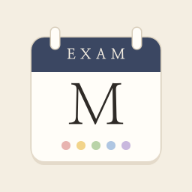
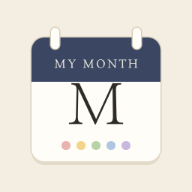
Rename to My Month, neutral wording, cleaner palette cards, more varied palettes
- Title, login screen, home-screen name, manifest and icon banner: My Month
- Exam-specific wording made neutral: 시험일 → D-day / 일정, 과목 → 일정,
  문제집 → 세부일정; Category1/2 hints read 일정 / 과목, 세부일정 / 문제집;
  examples and font previews use everyday tasks; new accounts start with
  공부 · 업무 · 운동 · 약속 · 개인
- Palette cards show only the name and colors (descriptions removed)
- All 12 movie palettes, London/Rome/Florence/Tokyo/Paris/New York/Seoul,
  Santorini/Marrakech/Little Forest/Grand Budapest and Blush Garden get
  more varied hues while keeping their mood (max similar pairs 25 → 8)

Claude-Session: https://claude.ai/code/session_01BxdXTeJun2es14Jts7corD

Changed region(s): [[0.1562, 0.25, 0.8438, 0.4375]]

diff --git a/js/data.js b/js/data.js
@@ -9,40 +9,40 @@
 const RAINBOW = ['빨강', '주황', '노랑', '초록', '파랑', '남색', '보라', '분홍', '청록', '모카'];
 
 const THEME_SOURCES = [
-  // 영화 장면에서 뽑은 색감 (사진 팔레트 순서 그대로)
-  { id: 'mv-enola', group: 'movie', name: '에놀라 홈즈', desc: '여름 들판 · 리넨 셔츠 · 멜빵', names: ['베이지', '탠', '카멜', '브라운', '벽돌 레드', '머스타드 올리브', '올리브', '딥 올리브', '다크 브라운', '스톤 그레이'], base: ['#DCC09E', '#C8A37E', '#9E7B52', '#8A5C40', '#9A4A40', '#8E7A40', '#6E6634', '#4E5420', '#2A2818', '#A8ABA6'] },
-  { id: 'mv-bigfish', group: 'movie', name: '빅 피쉬', desc: '수선화 들판 · 네이비 수트', names: ['미드나잇', '네이비', '라벤더 블루', '실버 그레이', '세이지', '모스', '그린', '올리브', '연노랑', '수선화 옐로'], base: ['#1E1F2A', '#353D6A', '#8C93C8', '#C3BFC4', '#94A47A', '#6A8048', '#5A7A30', '#8E8A4A', '#D6D27E', '#D6C040'] },
-  { id: 'mv-midnight', group: 'movie', name: '미드나잇 인 파리', desc: '비 내린 다리 위 가로등', names: ['밤', '딥 네이비', '블루', '하늘', '연하늘', '크림', '가로등 옐로', '살구', '레드', '브라운'], base: ['#0E1724', '#2A3D5A', '#3E5E9A', '#94B4E0', '#C8D6EE', '#F2DCA8', '#F5C460', '#E3A26A', '#C9493E', '#6A2A1E'] },
-  { id: 'mv-potter', group: 'movie', name: '해리포터', desc: '차콜 · 버건디 · 골드 · 틸', names: ['차콜 그레이', '딥 버건디', '버니시드 골드', '다크 틸', '앤티크 베이지', '포레스트', '플럼', '촛불 앰버', '석벽 그레이', '브론즈'], base: ['#30373E', '#7A2038', '#C49B4C', '#0A4F54', '#E2D2B4', '#2E4A3A', '#5E4A5E', '#D8A060', '#7E7A72', '#8E6A3E'] },
-  { id: 'mv-spirited', group: 'movie', name: '센과 치히로', desc: '온천장 · 숲 · 하쿠', names: ['차콜', '핑크', '틸', '다크 브라운', '코랄', '머스타드', '그린', '라벤더', '피치', '연올리브'], base: ['#2E2A2A', '#E04A6A', '#0E4E66', '#3E2A24', '#E07466', '#E0A83A', '#6CB04E', '#9A82A6', '#E3AE9E', '#B8BA80'] },
-  { id: 'mv-cmbyn', group: 'movie', name: '콜 미 바이 유어 네임', desc: '이탈리아 호숫가 · 줄무늬 셔츠', names: ['다크 브라운', '토프', '세이지', '민트 화이트', '민트', '시폼', '아쿠아 그레이', '틸 그레이', '스틸 블루', '네이비'], base: ['#2A251C', '#7A6660', '#A0AE88', '#CFE2D2', '#A6D2AE', '#92BEAE', '#86B0B6', '#6E9E96', '#4E7A9A', '#1E3E5E'] },
-  { id: 'mv-lalaland', group: 'movie', name: '라라랜드', desc: '보랏빛 노을 · 노란 드레스', names: ['퍼플 블루', '라일락', '로즈 브라운', '모브', '피치 핑크', '하늘', '머스타드', '레드', '로열 블루', '다크 그린'], base: ['#7A78BC', '#C0B6D8', '#BE8678', '#A8828E', '#E6C4B8', '#B4C6D8', '#C4A63E', '#A8382E', '#2A4C96', '#1E2A1E'] },
-  { id: 'mv-queens', group: 'movie', name: '퀸스 갬빗', desc: '60년대 거실 · 체스 · 틸 소파', names: ['레드', '브라운', '카멜', '오렌지 탠', '모브 브라운', '토프', '미드나잇', '틸 그레이', '페트롤 블루', '세이지 그레이'], base: ['#9E2E38', '#8A5A48', '#A0805A', '#C48A5A', '#7E5E62', '#6E5E50', '#14222A', '#3E5A60', '#5A808A', '#8A9480'] },
-  { id: 'mv-dune', group: 'movie', name: '듄', desc: '사막 · 모래빛 수트 · 흐린 하늘', names: ['웜 그레이', '차콜', '라벤더 그레이', '하늘', '안개', '샌드 오렌지', '테라코타', '모카', '브라운', '다크 브라운'], base: ['#7E7678', '#3E3C4C', '#9A98A8', '#CCDCEC', '#DEDEE2', '#C08A5A', '#B07A62', '#8E7266', '#6E4A3A', '#4E3228'] },
-  { id: 'mv-bridgerton', group: 'movie', name: '브리저튼', desc: '리젠시 드레스룸 · 파우더 블루 · 로즈', names: ['브라운', '플럼', '슬레이트 블루', '파우더 블루', '아이스 블루', '아이보리', '더스티 핑크', '로즈', '라벤더', '액자 골드'], base: ['#554636', '#4A3A44', '#5E6E7E', '#9EAEBA', '#C8D2DE', '#DEDAD2', '#D6C4C4', '#CEA29A', '#B8A8C8', '#C8A870'] },
-  { id: 'mv-coraline', group: 'movie', name: '코렐라인', desc: '파란 머리 · 노란 우비', names: ['밤', '네이비', '블루', '슬레이트', '머스타드', '우비 옐로', '와인', '카키 그레이', '피치', '부엌 크림'], base: ['#16222E', '#0E2440', '#1A3E5E', '#5E6A74', '#A0823A', '#B89A4A', '#6A3A3E', '#7E7666', '#E0BFA4', '#D8CFB0'] },
-  { id: 'mv-wicked', group: 'movie', name: '위키드', desc: '글린다 핑크 · 엘파바 그린', names: ['블러시', '핑크', '코랄 핑크', '로즈 레드', '엘파바 그린', '다크 올리브', '라임', '버터', '에메랄드 시티', '차콜'], base: ['#E8D0C6', '#E4A8B0', '#E68A88', '#C85A5C', '#6E8A3C', '#4E5A2E', '#AABE68', '#D8D49A', '#2E5A3A', '#5A5A5C'] },
+  // 영화 분위기를 살리면서 색조는 다양하게 (비슷한 색끼리 겹치지 않게)
+  { id: 'mv-enola', group: 'movie', name: '에놀라 홈즈', desc: '여름 들판 · 리넨 셔츠 · 멜빵', names: ['들판 골드', '숲 그린', '하늘 블루', '벽돌 레드', '라벤더', '네이비', '티 로즈', '틸', '다크 초콜릿', '자두'], base: ['#D6B04C', '#4E7A3A', '#7FA6C9', '#A8473A', '#8E7AAE', '#2E3E5E', '#D08A96', '#3E7E7A', '#4A3226', '#6E3A5E'] },
+  { id: 'mv-bigfish', group: 'movie', name: '빅 피쉬', desc: '수선화 들판 · 네이비 수트', names: ['수선화', '네이비 수트', '서커스 레드', '풀밭 그린', '라벤더 블루', '강물 틸', '오렌지', '핑크 드레스', '은빛 물고기', '나무 브라운'], base: ['#E8C840', '#2E3C6E', '#C0443C', '#6E9E44', '#8C93C8', '#3E8C9A', '#E0883A', '#D88AA8', '#A8B4BC', '#8A6440'] },
+  { id: 'mv-midnight', group: 'movie', name: '미드나잇 인 파리', desc: '비 내린 다리 위 가로등', names: ['밤 블루', '가로등 옐로', '와인 레드', '센강 틸', '살구', '라일락', '카페 브라운', '압생트 그린', '장미', '비 오는 회색'], base: ['#2A3D6A', '#F2C25A', '#A83A48', '#3E8A8E', '#E8A070', '#A694C8', '#7A5238', '#8AAA4E', '#D88A9A', '#8C96A6'] },
+  { id: 'mv-potter', group: 'movie', name: '해리포터', desc: '차콜 · 버건디 · 골드 · 틸', names: ['그리핀도르 레드', '골드', '슬리데린 그린', '래번클로 블루', '촛불 오렌지', '마법 보라', '호수 틸', '양피지', '석벽 그레이', '요정 핑크'], base: ['#9E2A34', '#D4A83A', '#2E6A48', '#2E4E8E', '#E08A3C', '#6E4A8E', '#2E7E80', '#DCC9A0', '#7E7A76', '#C87A92'] },
+  { id: 'mv-spirited', group: 'movie', name: '센과 치히로', desc: '온천장 · 숲 · 하쿠', names: ['온천장 핑크', '하쿠 틸', '머스타드', '숲 그린', '라벤더', '등불 오렌지', '다크 브라운', '하늘', '피치', '가오나시 차콜'], base: ['#E04A6A', '#0E6E86', '#E0A83A', '#6CB04E', '#9A82A6', '#E87A4A', '#5E3A2A', '#7EB8D8', '#E8B4A0', '#3E3A3E'] },
+  { id: 'mv-cmbyn', group: 'movie', name: '콜 미 바이 유어 네임', desc: '이탈리아 호숫가 · 줄무늬 셔츠', names: ['수영장 블루', '살구', '민트', '레몬', '체리 레드', '올리브', '하늘', '포레스트', '라일락', '와인'], base: ['#2F6FB6', '#E89A6A', '#8ECFA8', '#E8D05A', '#C2443C', '#7A8A44', '#9CC4E0', '#2E5E3E', '#A894C0', '#7A2E44'] },
+  { id: 'mv-lalaland', group: 'movie', name: '라라랜드', desc: '보랏빛 노을 · 노란 드레스', names: ['미아 옐로', '로열 블루', '레드 드레스', '퍼플 노을', '피치 핑크', '에메랄드', '하늘', '마젠타', '오렌지 노을', '밤 틸'], base: ['#E8C23A', '#2A4C96', '#B8323A', '#7A68B8', '#EAA090', '#2E8A6E', '#8EB8DE', '#B8487E', '#E8884A', '#2E5E5A'] },
+  { id: 'mv-queens', group: 'movie', name: '퀸스 갬빗', desc: '60년대 거실 · 체스 · 틸 소파', names: ['체스 레드', '틸 소파', '그린', '오렌지', '체커 블랙', '하늘', '머스타드', '네이비', '모브', '크림'], base: ['#9E2E38', '#2E6E74', '#4E7A4A', '#D8783A', '#2A2A30', '#8EB4D8', '#C8A040', '#2E3E6A', '#9A6E8A', '#E6DAC0'] },
+  { id: 'mv-dune', group: 'movie', name: '듄', desc: '사막 · 모래빛 수트 · 흐린 하늘', names: ['스파이스 오렌지', '사막 모래', '하늘 블루', '스틸 그레이', '사막 장미', '프레멘 블루', '다크 초콜릿', '오아시스 그린', '라벤더 노을', '아라키스 금빛'], base: ['#D2763A', '#E0BE8A', '#7EA6D0', '#5E6A78', '#C86A8A', '#2E5E9E', '#3E2A24', '#5E8E5A', '#A08EB8', '#D8A83A'] },
+  { id: 'mv-bridgerton', group: 'movie', name: '브리저튼', desc: '리젠시 드레스룸 · 파우더 블루 · 로즈', names: ['파우더 블루', '로즈', '바이올렛', '세이지', '샴페인 골드', '피치', '로열 네이비', '와인', '틸', '코랄'], base: ['#8EAEDA', '#E09AAE', '#8A6AC0', '#8AAE8E', '#D6B46A', '#F0B08E', '#2E3E7A', '#8A2E48', '#3E8A8E', '#E07E78'] },
+  { id: 'mv-coraline', group: 'movie', name: '코렐라인', desc: '파란 머리 · 노란 우비', names: ['파란 머리', '노란 우비', '체리 레드', '이끼 그린', '보라', '오렌지', '하늘', '핑크', '다크 네이비', '틸'], base: ['#1E4E9E', '#E8C23A', '#B8384A', '#5E8A3E', '#6E4A9E', '#E0843A', '#7EB0D0', '#E08AAE', '#1A2A44', '#2E8A8A'] },
+  { id: 'mv-wicked', group: 'movie', name: '위키드', desc: '글린다 핑크 · 엘파바 그린', names: ['엘파바 그린', '글린다 핑크', '에메랄드 시티', '라벤더', '골드', '로즈 레드', '라임', '하늘', '마녀 블랙', '피치'], base: ['#4E8A3E', '#E88AAE', '#2E7A5E', '#A890D0', '#D8B04A', '#C8485C', '#A8C45E', '#8EC0E0', '#2E2E36', '#F0B090'] },
 
   // 도시 분위기
-  { id: 'ct-london', group: 'city', name: '런던', desc: '빨간 공중전화 · 담쟁이 · 돌담', names: ['차콜 그레이', '버건디', '공중전화 레드', '담쟁이 레드', '카멜', '돌담 베이지', '딥 레드', '스틸 블루', '비 오는 회색', '가로등 블랙'], base: ['#5A5754', '#6E1E28', '#E04A58', '#D04E48', '#C09A70', '#B4AA9C', '#8E1A1A', '#6A8098', '#7E7A78', '#34383E'] },
-  { id: 'ct-paris', group: 'city', name: '파리', desc: '아연 지붕 · 마카롱 · 카페 테라스', names: ['오스만 크림', '아연 지붕', '세느 블루', '마카롱 핑크', '라벤더', '테라스 레드', '크루아상 골드', '마로니에 그린', '밤의 네이비', '보르도'], base: ['#E8DCC4', '#7E8A96', '#4E6E8E', '#E8A8B4', '#A898C4', '#A8323A', '#D4A050', '#5E7A4E', '#1E2A44', '#6A2234'] },
-  { id: 'ct-rome', group: 'city', name: '로마', desc: '테라코타 벽 · 사이프러스 · 젤라토', names: ['테라코타', '오커', '트래버틴', '사이프러스', '올리브', '바티칸 블루', '피스타치오', '레몬', '키안티 레드', '노을 로즈'], base: ['#C0623E', '#D8A048', '#D8CCB0', '#3E5A3A', '#8A8A4E', '#3A5A8A', '#B8CC8E', '#EED36A', '#8A2A2E', '#E2A08E'] },
-  { id: 'ct-newyork', group: 'city', name: '뉴욕', desc: '옐로 캡 · 브라운스톤 · 센트럴파크', names: ['옐로 캡', '브라운스톤', '벽돌', '센트럴파크', '허드슨 블루', '스틸 그레이', '브로드웨이 레드', '자유의 여신', '미드나잇', '콘크리트'], base: ['#F2C230', '#7A4A36', '#A84A3A', '#4E7A44', '#3E5E80', '#7E848C', '#C62E3A', '#7EB8A4', '#1A2230', '#B8B4AC'] },
+  { id: 'ct-london', group: 'city', name: '런던', desc: '빨간 공중전화 · 담쟁이 · 돌담', names: ['공중전화 레드', '로열 블루', '하이드파크 그린', '템스 틸', '돌담 베이지', '담쟁이 오렌지', '라벤더', '가로등 차콜', '머스타드', '장미'], base: ['#C8323A', '#2E4E8E', '#4E8A4E', '#3E7E86', '#C8B490', '#D8743A', '#9A8AB8', '#3E4046', '#C8A040', '#D88A98'] },
+  { id: 'ct-paris', group: 'city', name: '파리', desc: '아연 지붕 · 마카롱 · 카페 테라스', names: ['세느 블루', '마카롱 핑크', '라벤더', '테라스 레드', '크루아상 골드', '마로니에 그린', '아연 지붕', '오스만 크림', '민트', '밤의 네이비'], base: ['#3E6E9E', '#E8A0B4', '#A890D0', '#B8323A', '#D8A44A', '#5E8A4E', '#7E8A96', '#E8DCC4', '#8ED0C0', '#1E2A4E'] },
+  { id: 'ct-rome', group: 'city', name: '로마', desc: '테라코타 벽 · 사이프러스 · 젤라토', names: ['테라코타', '레몬', '사이프러스', '바티칸 블루', '피스타치오', '키안티 레드', '라일락', '분수 아쿠아', '에스프레소', '젤라토 핑크'], base: ['#C0623E', '#EAD860', '#3E6A4A', '#2E4A8E', '#A8C478', '#9A2A3A', '#A08EC0', '#4EB0C0', '#5A3A2E', '#E89AB0'] },
+  { id: 'ct-newyork', group: 'city', name: '뉴욕', desc: '옐로 캡 · 브라운스톤 · 센트럴파크', names: ['옐로 캡', '브라운스톤', '브로드웨이 퍼플', '센트럴파크', '허드슨 블루', '핑크 네온', '브로드웨이 레드', '자유의 여신', '미드나잇', '콘크리트'], base: ['#F2C230', '#7A4A36', '#7A5EA8', '#4E7A44', '#3E5E80', '#E89AB0', '#C62E3A', '#7EB8A4', '#1A2230', '#B8B4AC'] },
   { id: 'ct-la', group: 'city', name: 'LA', desc: '선셋 · 야자수 · 태평양', names: ['선셋 오렌지', '핑크 노을', '야자수', '퍼시픽 블루', '하늘', '할리우드 골드', '샌드', '부겐빌레아', '라벤더 하늘', '밤의 보라'], base: ['#F08A4E', '#F2A0A8', '#4E8A5A', '#2E7EB0', '#9CCCE8', '#E2B84A', '#E8D2AE', '#C83E7A', '#B4A6D8', '#3A2E5E'] },
-  { id: 'ct-florence', group: 'city', name: '피렌체', desc: '두오모 · 대리석 · 아르노 강', names: ['두오모 테라코타', '대리석 크림', '두오모 그린', '아르노 강', '투스칸 옐로', '와인', '가죽 브라운', '사이프러스', '로즈 마블', '석양 오렌지'], base: ['#B85A3A', '#EDE6D6', '#4E6E52', '#7E9A8E', '#E0B85A', '#7A2836', '#8A5A3A', '#34492E', '#D8A8A0', '#E08A4E'] },
-  { id: 'ct-tokyo', group: 'city', name: '도쿄', desc: '벚꽃 · 도리이 · 네온', names: ['벚꽃', '도리이 레드', '네온 핑크', '말차', '인디고', '밤', '후지 블루', '유자', '콘크리트', '등나무'], base: ['#F2BCC8', '#D0402E', '#E2508E', '#8EAA5A', '#2E3E6E', '#161A2A', '#6E8EB8', '#F0CC4A', '#A8A8A8', '#A88EC8'] },
+  { id: 'ct-florence', group: 'city', name: '피렌체', desc: '두오모 · 대리석 · 아르노 강', names: ['두오모 테라코타', '두오모 그린', '아르노 블루', '투스칸 옐로', '와인', '대리석 크림', '로즈 마블', '올리브', '라벤더', '하늘'], base: ['#B85A3A', '#3E7A5A', '#4E7EA8', '#E0B84A', '#7A2840', '#E6DCC6', '#D88A98', '#8A8A44', '#9A86BE', '#9CC6E0'] },
+  { id: 'ct-tokyo', group: 'city', name: '도쿄', desc: '벚꽃 · 도리이 · 네온', names: ['벚꽃', '도리이 레드', '말차', '인디고', '유자', '등나무', '네온 시안', '콘크리트', '노을 오렌지', '신사 숲'], base: ['#F2A8BC', '#D0402E', '#8EAA4E', '#2E3E7E', '#F0CC4A', '#A88EC8', '#3EB8C8', '#8E9096', '#E8843A', '#3E6E4E'] },
   { id: 'ct-berlin', group: 'city', name: '베를린', desc: '콘크리트 · 그래피티 · 티어가르텐', names: ['콘크리트', '그래피티 옐로', '그래피티 핑크', '장벽 블루', '테크노 블랙', '티어가르텐', '벽돌', '샌드스톤', '페트롤', '녹슨 철'], base: ['#8E8E8C', '#F0C834', '#E25A8A', '#3E6EA8', '#1E1E22', '#5A7A4A', '#A8503E', '#D6C29A', '#2E5E66', '#8A4A2E'] },
   { id: 'ct-sydney', group: 'city', name: '시드니', desc: '하버 · 본다이 비치 · 자카란다', names: ['하버 블루', '오페라하우스', '본다이 아쿠아', '샌드', '유칼립투스', '자카란다', '산호', '선샤인', '레드 센터', '딥 오션'], base: ['#1E6EA8', '#F0EEE6', '#5EC4C8', '#E8CFA0', '#8AAE9A', '#9E86D0', '#F08A72', '#F2C84E', '#B8502E', '#123A5E'] },
-  { id: 'ct-seoul', group: 'city', name: '서울', desc: '단청 · 한강 · 은행잎', names: ['단청 레드', '단청 그린', '한강 블루', '남산 그레이', '벚꽃', '은행잎', '한복 분홍', '쪽빛', '기와 차콜', '백자'], base: ['#B83A30', '#3E8A6A', '#4E7EAE', '#8C9098', '#F2C4CC', '#EDC23E', '#E07898', '#2A3E6E', '#3A3A40', '#EEEAE0'] },
+  { id: 'ct-seoul', group: 'city', name: '서울', desc: '단청 · 한강 · 은행잎', names: ['단청 레드', '단청 그린', '한강 블루', '노을 오렌지', '라일락', '은행잎', '한복 분홍', '쪽빛', '기와 차콜', '백자'], base: ['#B83A30', '#3E8A6A', '#4E7EAE', '#E8843A', '#A890CC', '#EDC23E', '#E07898', '#2A3E6E', '#3A3A40', '#EEEAE0'] },
 
   // 여행지 · 영화 · 문구점에서 골라 담은 추천 조합
-  { id: 'pk-santorini', group: 'pick', name: '산토리니', desc: '에게해 · 흰 벽 · 부겐빌레아', names: ['에게해 블루', '레몬', '부겐빌레아', '올리브', '하늘', '테라코타', '라벤더', '모래', '딥 씨', '화이트 워시'], base: ['#1F5FA8', '#E8C547', '#C2417A', '#7C8A4E', '#7FB2DE', '#C0643E', '#9C8CC4', '#D9C29A', '#183E6E', '#E4E0D6'] },
+  { id: 'pk-santorini', group: 'pick', name: '산토리니', desc: '에게해 · 흰 벽 · 부겐빌레아', names: ['에게해 블루', '레몬', '부겐빌레아', '올리브', '하늘', '테라코타', '라벤더', '민트', '화이트 워시', '무화과'], base: ['#1F5FA8', '#E8C547', '#C2417A', '#7C8A4E', '#8EC4E8', '#C0643E', '#9C8CC4', '#8ED0B8', '#E4E0D6', '#6E3E6E'] },
   { id: 'pk-kyoto', group: 'pick', name: '교토의 가을', desc: '단풍 · 은행 · 말차', names: ['단풍 레드', '은행 옐로', '말차', '쪽빛', '감 오렌지', '등나무', '기와 그레이', '연분홍', '이끼', '나무 브라운'], base: ['#B83A2E', '#E2B33C', '#7E9A4E', '#2E4A72', '#E07E3C', '#8E78B0', '#6E7076', '#E8A8B0', '#4E6A3E', '#7A5238'] },
   { id: 'pk-aurora', group: 'pick', name: '아이슬란드 오로라', desc: '오로라 · 빙하 · 화산석', names: ['오로라 그린', '밤하늘', '핑크 오로라', '빙하 블루', '퍼플', '이끼', '노을', '온천 아쿠아', '화산석', '눈'], base: ['#3EBF8E', '#1E2A4E', '#D46EA8', '#8EC8DE', '#7A5EB4', '#8AA05A', '#E89A6E', '#5EC4C0', '#4A4A50', '#DDE4EA'] },
-  { id: 'pk-marrakech', group: 'pick', name: '마라케시', desc: '마조렐 블루 · 사프란 · 민트티', names: ['마조렐 블루', '사프란', '민트티', '장미', '테라코타', '타일 청록', '사막 모래', '향신료 레드', '대추야자', '라임워시'], base: ['#2E4FB0', '#E8A23A', '#6EAA8A', '#D47A8A', '#B85A36', '#2E8A8E', '#D8B78A', '#A8322E', '#6E3E2A', '#E2D6B8'] },
-  { id: 'pk-budapest', group: 'pick', name: '그랜드 부다페스트 호텔', desc: '핑크 호텔 · 보라 제복 · 케이크 상자', names: ['멘들스 핑크', '벨보이 퍼플', '머스타드', '스노우 블루', '엘리베이터 레드', '민트', '라일락', '초콜릿', '스카이', '크림'], base: ['#E8A0B0', '#5E3A6E', '#D8A83E', '#A8C4DE', '#B8323E', '#8EC4B0', '#9E86B8', '#5A3A2E', '#6E9EC8', '#E6DAC0'] },
+  { id: 'pk-marrakech', group: 'pick', name: '마라케시', desc: '마조렐 블루 · 사프란 · 민트티', names: ['마조렐 블루', '사프란', '민트티', '장미', '테라코타', '라벤더', '하늘', '올리브', '대추야자', '라임워시'], base: ['#2E4FB0', '#E8A23A', '#6EAA8A', '#D47A8A', '#B85A36', '#9A86C0', '#8EC0E0', '#8A8A3E', '#6E3E2A', '#E2D6B8'] },
+  { id: 'pk-budapest', group: 'pick', name: '그랜드 부다페스트 호텔', desc: '핑크 호텔 · 보라 제복 · 케이크 상자', names: ['멘들스 핑크', '벨보이 퍼플', '머스타드', '스노우 블루', '엘리베이터 레드', '민트', '오렌지', '초콜릿', '스카이', '포레스트'], base: ['#E8A0B0', '#5E3A6E', '#D8A83E', '#A8C4DE', '#B8323E', '#8EC4B0', '#E8843A', '#5A3A2E', '#6E9EC8', '#3E6A4E'] },
   { id: 'pk-jeju', group: 'pick', name: '제주', desc: '감귤 · 유채꽃 · 현무암', names: ['감귤', '제주 바다', '동백', '유채꽃', '오름 그린', '수국', '현무암', '하늘', '해녀 블루', '모래'], base: ['#F08A2E', '#2E8AB0', '#C0323E', '#EAC83E', '#6E9A4E', '#8E86C8', '#4A4A4E', '#9CC8E6', '#1E4A6E', '#DCCBA8'] },
-  { id: 'pk-forest', group: 'pick', name: '리틀 포레스트', desc: '시골 부엌 · 텃밭 · 사계절', names: ['토마토', '들깨 그린', '호박', '겨울 하늘', '고구마 퍼플', '꽃분홍', '밤 브라운', '논 초록', '밤하늘', '막걸리 크림'], base: ['#D04A3A', '#6E8A4A', '#E2963E', '#9AB4C8', '#8A5E86', '#E4A0A8', '#8A5A3A', '#A8B85E', '#2E3A52', '#E2D8BE'] },
+  { id: 'pk-forest', group: 'pick', name: '리틀 포레스트', desc: '시골 부엌 · 텃밭 · 사계절', names: ['토마토', '들깨 그린', '호박', '민트', '고구마 퍼플', '꽃분홍', '개울 블루', '레몬', '밤하늘', '버섯 브라운'], base: ['#D04A3A', '#6E8A4A', '#E2963E', '#8ED0BE', '#8A5E86', '#E4A0A8', '#3E7EA8', '#E8D060', '#2E3A52', '#8A6A4E'] },
   { id: 'pk-provence', group: 'pick', name: '프로방스', desc: '라벤더 밭 · 해바라기 · 올리브', names: ['라벤더', '해바라기', '지중해 블루', '로즈', '올리브', '테라코타', '시냇물', '포도 와인', '세이지', '석회암'], base: ['#9A84C8', '#EAC23E', '#3A72B0', '#D88A9A', '#7A8A4A', '#C2683E', '#6EB0B8', '#6E2A44', '#A8B8A0', '#D6C6A8'] },
   { id: 'pk-nordic', group: 'pick', name: '노르딕', desc: '피오르 · 링곤베리 · 자작나무', names: ['피오르 블루', '링곤베리', '버터', '숲', '오로라 민트', '모브', '라이트 우드', '블루베리', '안개', '차콜'], base: ['#3E6E96', '#B8324A', '#EAD08A', '#3E5E4A', '#8ECDB8', '#A88AA8', '#C8A07A', '#4A4A8A', '#B8C2C8', '#3E4048'] },
   { id: 'pk-stationery', group: 'pick', name: '문구점', desc: '형광펜 · 색연필 · 포스트잇', names: ['형광 핑크', '레몬', '민트', '하늘', '라벤더', '피치', '그린', '코랄', '네이비 펜', '연필 그레이'], base: ['#F08AA8', '#F2D45A', '#7ED0B8', '#84B8EA', '#B49ADE', '#F4A882', '#8CC46A', '#F07A6A', '#2E3E7A', '#8A8A8E'] },
@@ -56,7 +56,7 @@ const THEME_SOURCES = [
   { id: 'rb-jewel', group: 'rainbow', name: '주얼톤', desc: '보석처럼 깊은 무지개', base: ['#A51E36', '#C55A1E', '#C99A1E', '#2E7D4F', '#1F639E', '#2E3584', '#5E2E85', '#A6336E', '#0F6E6A', '#6B3E26'] },
 
   // 여러 색이 섞인 조합
-  { id: 'mx-blush', group: 'mix', name: '블러시 가든', desc: '블러시 · 로즈우드 · 세이지', names: ['블러시', '로즈우드', '세이지', '미스티 스카이', '미드나잇', '바닐라', '더스티 로즈', '모스', '라떼', '더스크'], base: ['#F7C8D3', '#B46A72', '#A8B58A', '#A8B7C6', '#2D3A47', '#F3E3C3', '#D9A5A0', '#6E7F5A', '#C9A68A', '#7A6E8E'] },
+  { id: 'mx-blush', group: 'mix', name: '블러시 가든', desc: '블러시 · 로즈우드 · 세이지', names: ['블러시', '로즈우드', '세이지', '미스티 스카이', '미드나잇', '바닐라', '라벤더', '테라코타', '라떼', '더스크'], base: ['#F7C8D3', '#B46A72', '#A8B58A', '#A8B7C6', '#2D3A47', '#F3E3C3', '#B8A6D6', '#C8805A', '#C9A68A', '#7A6E8E'] },
   { id: 'mx-butter', group: 'mix', name: '버터 & 버건디', desc: '버터밀크 · 파스텔 블루 · 버건디', names: ['버터밀크', '파스텔 블루', '올드 버건디', '세이지', '블러시', '카라멜', '네이비', '라벤더', '테라코타', '올리브'], base: ['#FFF1B5', '#C1DBE8', '#6B2E33', '#A8B58A', '#EDBFC0', '#C08552', '#3A4A6B', '#C3B5D9', '#C46A4A', '#8C8A5A'] },
   { id: 'mx-retro', group: 'mix', name: '레트로 팝', desc: '라벤더 · 라임에이드 · 토마토', names: ['오텀 라벤더', '라임에이드', '토마토 잼', '퓨어 선', '모네 연못', '버블검', '스카이', '틸', '체리', '크림'], base: ['#D1CAEA', '#D6D35F', '#C45F3F', '#F4D242', '#898E46', '#F29CC3', '#80B0E8', '#008471', '#B23A48', '#EFE3C2'] },
   { id: 'mx-baby', group: 'mix', name: '베이비 팝', desc: '라벤더 · 피치 · 풀장', names: ['베이비 라벤더', '블루 스카이', '수선화', '나이트', '피치', '양귀비', '푸크시아', '풀장', '세이지', '모카'], base: ['#DBC0E8', '#A3C1E2', '#F7E289', '#252D45', '#FBB28B', '#F76F54', '#EA5E8B', '#47B5A8', '#9FA88E', '#A47A5E'] },
@@ -193,7 +193,7 @@ export const STYLES = [
   { id: 'hand', name: '손글씨', desc: '줄노트 배경 + 진한 펜 테두리', ink: '#2B2A33', sub: '#7D7A86', line: '#D9D1C0', outer: '1.5px solid #3B3A44', cellBg: 'rgba(255,253,246,0.6)', headBg: 'transparent', radius: 0, sun: '#D2493F', sat: '#3F78C2', circle: 0.9, todayBg: 'rgba(255,236,150,0.45)', todayBadge: '#2B2A33', todayFg: '#FFFFFF' },
   { id: 'grid', name: '그리드', desc: '모눈종이 다이어리', ink: '#2F2B27', sub: '#6F6A62', line: '#CFCBC4', outer: '1px solid #CFCBC4', cellBg: 'rgba(255,255,255,0.55)', headBg: 'transparent', radius: 0, sun: '#D2493F', sat: '#3F78C2', circle: 0.85, todayBg: 'rgba(255,248,220,0.7)', todayBadge: '#2F2B27', todayFg: '#FFFFFF' },
   { id: 'vintage', name: '빈티지 페이퍼', desc: '크라프트지 + 이중 테두리', ink: '#4A3B2A', sub: '#8A7558', line: '#CDBFA6', outer: '3px double #A8957A', cellBg: 'rgba(251,246,236,0.5)', headBg: 'rgba(168,149,122,0.12)', radius: 0, sun: '#A8432F', sat: '#3E5F80', circle: 0.6, todayBg: 'rgba(214,180,120,0.25)', todayBadge: '#4A3B2A', todayFg: '#FBF6EC' },
-  { id: 'night', name: '나이트', desc: '밤 공부용 어두운 화면', dark: true, ink: '#ECE8DF', sub: '#9AA0B0', line: '#3A4052', outer: '1px solid #454B5F', cellBg: 'rgba(255,255,255,0.03)', headBg: 'rgba(255,255,255,0.04)', radius: 12, sun: '#FF8A80', sat: '#8AB4FF', circle: 0.35, todayBg: 'rgba(255,255,255,0.08)', todayBadge: '#ECE8DF', todayFg: '#1E2230' },
+  { id: 'night', name: '나이트', desc: '밤에 보기 편한 어두운 화면', dark: true, ink: '#ECE8DF', sub: '#9AA0B0', line: '#3A4052', outer: '1px solid #454B5F', cellBg: 'rgba(255,255,255,0.03)', headBg: 'rgba(255,255,255,0.04)', radius: 12, sun: '#FF8A80', sat: '#8AB4FF', circle: 0.35, todayBg: 'rgba(255,255,255,0.08)', todayBadge: '#ECE8DF', todayFg: '#1E2230' },
 ];
 
 // 글씨체: scale = 글자 크기 보정 (손글씨 글꼴은 작아 보여서 키움)

diff --git a/js/app.js b/js/app.js
@@ -716,8 +716,8 @@ function viewLogin() {
   }
   return `<main class="login">
     <section class="login-intro">
-      <h1 class="login-title">Exam Monthly</h1>
-      <p class="login-sub">시험 계획을 먼슬리 캘린더에.<br>아이패드, 노트북, 폰 어디서든 같은 계획을 이어서.</p>
+      <h1 class="login-title">My Month</h1>
+      <p class="login-sub">할 일과 일정을 먼슬리 캘린더에.<br>아이패드, 노트북, 폰 어디서든 같은 계획을 이어서.</p>
       <div class="login-mini" aria-hidden="true">${cells}</div>
     </section>
     <section class="card login-card">
@@ -1079,7 +1079,7 @@ function viewConflict() {
   if (!c) return '';
   const server = fromRemote(c.remote);
   const local = normalize(toPlain(c.local));
-  const count = (d) => `할 일 ${d.todos.length}개 · 시험 ${d.exams.length}개 · 문제집 ${d.books.length}개`;
+  const count = (d) => `할 일 ${d.todos.length}개 · D-day ${d.exams.length}개 · 세부일정 ${d.books.length}개`;
   const device = c.kind === 'device';
   const title = device ? '기기 저장 모드에서 쓰던 내용이 있어요' : '인터넷이 끊긴 동안 바꾼 내용이 있어요';
   const desc = device
@@ -1129,18 +1129,18 @@ function viewTodoModal() {
     const c = colorOf(s.id);
     const on = dr.subjectId === s.id;
     return `<button class="pill" data-act="pick-subject" data-id="${s.id}" aria-pressed="${on}" style="background:${on ? c[2] : c[1]};border-color:${on ? c[2] : c[1]};color:${inkOn(on ? c[2] : c[1])}">${esc(s.name)}</button>`;
-  }).join('') || '<span class="hint">등록된 과목이 없어요. 카테고리에서 과목을 추가하세요.</span>';
+  }).join('') || '<span class="hint">등록된 일정이 없어요. 카테고리에서 일정을 추가하세요.</span>';
 
   let books;
   if (!dr.subjectId) {
-    books = '<div class="notice">먼저 Category1에서 과목을 선택하면, 그 과목의 문제집만 보여요.</div>';
+    books = '<div class="notice">먼저 Category1에서 일정을 선택하면, 그 일정의 세부일정만 보여요.</div>';
   } else {
     const list = S.data.books.filter((b) => b.subjectId === dr.subjectId);
     books = '<div class="row-wrap">' + list.map((b) => {
       const on = dr.bookId === b.id;
       return `<button class="tag-btn${on ? ' on' : ''}" data-act="pick-book" data-id="${b.id}" aria-pressed="${on}" style="${on ? `background:${col[1]};border-color:${col[2]};color:${inkOn(col[1])}` : ''}">${esc(b.name)}</button>`;
-    }).join('') + (list.length ? '' : '<span class="hint">이 과목에 등록된 문제집이 없어요.</span>') +
-      '<button class="link-btn" data-act="open-category-from-todo">+ 문제집 관리</button></div>';
+    }).join('') + (list.length ? '' : '<span class="hint">이 일정에 등록된 세부일정이 없어요.</span>') +
+      '<button class="link-btn" data-act="open-category-from-todo">+ 세부일정 관리</button></div>';
   }
 
   const book = byId(S.data.books, dr.bookId);
@@ -1152,20 +1152,20 @@ function viewTodoModal() {
         <input id="todo-date" class="field" type="date" value="${dr.date}" data-input="draft-date" style="width:200px">
       </div>
       <div class="field-group">
-        <span class="field-label">Category1 · 과목</span>
+        <span class="field-label">Category1 · 일정 / 과목</span>
         <div class="row-wrap">${subjects}</div>
       </div>
       <div class="field-group">
-        <span class="field-label">Category2 · 문제집</span>
+        <span class="field-label">Category2 · 세부일정 / 문제집</span>
         ${books}
       </div>
       <div class="field-group">
         <label class="field-label" for="todo-text">내용 · 범위</label>
-        <input id="todo-text" class="field" value="${esc(dr.text)}" data-input="draft-text" placeholder="예: p.258 ~ 279 / 06단원 / 38~40번" maxlength="80" autocomplete="off">
+        <input id="todo-text" class="field" value="${esc(dr.text)}" data-input="draft-text" placeholder="예: 보고서 초안 / 30분 운동 / p.20~45" maxlength="80" autocomplete="off">
       </div>
       <div class="preview-row">
         <span class="field-label">미리보기</span>
-        <span class="preview-chip" style="background:${chipBg(dr)};color:${inkOn(chipBg(dr))}"><b>${esc(book ? book.name : '')}</b> <span data-preview-text>${esc(dr.text || (dr.subjectId ? '' : '과목을 선택하세요'))}</span></span>
+        <span class="preview-chip" style="background:${chipBg(dr)};color:${inkOn(chipBg(dr))}"><b>${esc(book ? book.name : '')}</b> <span data-preview-text>${esc(dr.text || (dr.subjectId ? '' : '일정을 선택하세요'))}</span></span>
         <span class="sp"></span>
         <button class="btn btn-sm" data-act="toggle-draft-done">${dr.done ? '완료 취소' : '완료로 표시'}</button>
       </div>
@@ -1173,7 +1173,7 @@ function viewTodoModal() {
     <div class="modal-foot">
       ${dr.id ? '<button class="btn danger" data-act="delete-todo" style="margin-right:auto">삭제</button>' : ''}
       <button class="btn" data-act="close-modal">취소</button>
-      <button class="btn btn-primary" data-act="save-todo"${dr.subjectId ? '' : ' disabled title="과목을 먼저 선택하세요"'}>저장</button>
+      <button class="btn btn-primary" data-act="save-todo"${dr.subjectId ? '' : ' disabled title="일정을 먼저 선택하세요"'}>저장</button>
     </div>
   </div>`;
 }
@@ -1181,10 +1181,10 @@ function viewTodoModal() {
 // ---------------------------------------------------------------- 환경설정
 
 const SET_TABS = [
-  ['exam', '시험일', 'exam'],
+  ['exam', 'D-day', 'exam'],
   ['category', '카테고리', 'tag'],
   ['style', '캘린더 스타일', 'layout'],
-  ['color', '과목 색상', 'palette'],
+  ['color', '색상', 'palette'],
   ['font', '글씨체', 'font'],
   ['display', '화면 표시', 'eye'],
   ['export', 'A4 저장 · 인쇄', 'printer'],
@@ -1268,11 +1268,11 @@ function examBody() {
       <span class="exam-info"><span>${esc(e.name)}</span><span class="hint small">${dateLabel(e.date)}</span></span>
       <button class="icon-btn" data-act="delete-exam" data-id="${e.id}" aria-label="${esc(e.name)} 삭제">${ICON.x}</button>
     </div>`;
-  }).join('') || '<div class="notice">아직 등록된 시험이 없어요. 아래에서 시험을 추가하면 캘린더에 D-day가 표시돼요.</div>';
-  return `<p class="hint small" style="margin:0">캘린더의 각 날짜에는 그 날 이후 가장 가까운 시험의 D-day가 표시돼요.</p>
+  }).join('') || '<div class="notice">아직 등록된 D-day가 없어요. 아래에서 일정을 추가하면 캘린더에 D-day가 표시돼요.</div>';
+  return `<p class="hint small" style="margin:0">캘린더의 각 날짜에는 그 날 이후 가장 가까운 일정의 D-day가 표시돼요.</p>
     <div class="exam-list">${rows}</div>
     <div class="exam-add">
-      <div class="field-group grow"><label class="field-label" for="exam-name">시험 이름</label><input id="exam-name" class="field" data-enter="add-exam" placeholder="예: 2학기 기말고사" maxlength="30" autocomplete="off"></div>
+      <div class="field-group grow"><label class="field-label" for="exam-name">일정 이름</label><input id="exam-name" class="field" data-enter="add-exam" placeholder="예: 프로젝트 마감 / 기말고사 / 여행" maxlength="30" autocomplete="off"></div>
       <div class="field-group"><label class="field-label" for="exam-date">날짜</label><input id="exam-date" class="field" type="date" data-enter="add-exam"></div>
       <button class="btn" data-act="add-exam">추가</button>
     </div>`;
@@ -1295,17 +1295,17 @@ function categoryBody() {
     return `<div class="list-row${s.id === subId ? ' sel' : ''}">
       <button class="list-main" data-act="cat-select" data-id="${s.id}" aria-pressed="${s.id === subId}">
         <span class="sw" style="background:${c[1]}"></span><span class="sw sw-overlap" style="background:${c[2]}"></span>
-        <span class="list-name">${esc(s.name)}</span><span class="hint small">문제집 ${n}</span>
+        <span class="list-name">${esc(s.name)}</span><span class="hint small">세부일정 ${n}</span>
       </button>
       ${moveBtns('subjects', s, S.data.subjects)}
       <button class="icon-btn sm" data-act="rename-subject" data-id="${s.id}" aria-label="${esc(s.name)} 이름 바꾸기">${ICON.pencil}</button>
       <button class="icon-btn sm" data-act="delete-subject" data-id="${s.id}" aria-label="${esc(s.name)} 삭제">${ICON.x}</button>
     </div>`;
-  }).join('') || '<span class="hint">아직 과목이 없어요.</span>';
+  }).join('') || '<span class="hint">아직 일정이 없어요.</span>';
 
   let right;
   if (!sub) {
-    right = '<span class="hint">왼쪽에서 과목을 고르면, 그 과목의 문제집을 등록할 수 있어요.</span>';
+    right = '<span class="hint">왼쪽에서 일정을 고르면, 그 일정의 세부일정을 등록할 수 있어요.</span>';
   } else {
     const swatches = th.c.map((c, i) => `<button class="color-sw${sub.color % th.c.length === i ? ' on' : ''}" data-act="subject-color" data-i="${i}" style="background:${c[1]};border-color:${c[2]}" aria-label="${esc(c[0])} 색으로 바꾸기" title="${esc(c[0])}"></button>`).join('');
     const subBooks = S.data.books.filter((b) => b.subjectId === sub.id);
@@ -1314,24 +1314,24 @@ function categoryBody() {
         ${moveBtns('books', b, subBooks)}
         <button class="icon-btn sm" data-act="rename-book" data-id="${b.id}" aria-label="${esc(b.name)} 이름 바꾸기">${ICON.pencil}</button>
         <button class="icon-btn sm" data-act="delete-book" data-id="${b.id}" aria-label="${esc(b.name)} 삭제">${ICON.x}</button>
-      </div>`).join('') || '<span class="hint">아직 등록된 문제집이 없어요.</span>';
-    right = `<div class="color-row"><span class="hint small">과목 색</span>${swatches}</div>${books}`;
+      </div>`).join('') || '<span class="hint">아직 등록된 세부일정이 없어요.</span>';
+    right = `<div class="color-row"><span class="hint small">색</span>${swatches}</div>${books}`;
   }
   const tint = sub ? colorOf(sub.id)[1] + (isNight() ? '22' : '55') : 'var(--soft)';
   return `<div class="cat-grid">
       <section class="cat-panel">
-        <h3>Category1 <span class="hint small">과목 · 색은 과목 색상 테마에서 자동 지정</span></h3>
+        <h3>Category1 <span class="hint small">일정 / 과목</span></h3>
         <div class="cat-list">${subjects}</div>
         <div class="add-row">
-          <input class="field" data-enter="add-subject" id="new-subject" placeholder="새 과목 (예: 한국사)" maxlength="20" aria-label="새 과목 이름" autocomplete="off">
+          <input class="field" data-enter="add-subject" id="new-subject" placeholder="새 일정 (예: 운동)" maxlength="20" aria-label="새 일정 이름" autocomplete="off">
           <button class="btn" data-act="add-subject">추가</button>
         </div>
       </section>
       <section class="cat-panel" style="background:${tint}">
-        <h3>Category2 <span class="hint small">${sub ? esc(sub.name) + '의 문제집' : '과목을 먼저 선택하세요'}</span></h3>
+        <h3>Category2 <span class="hint small">${sub ? esc(sub.name) + '의 세부일정 / 문제집' : '세부일정 / 문제집 · 일정을 먼저 선택하세요'}</span></h3>
         <div class="cat-list">${right}</div>
         <div class="add-row">
-          <input class="field" data-enter="add-book" id="new-book" placeholder="새 문제집 (예: 마더텅)" maxlength="30" aria-label="새 문제집 이름" autocomplete="off"${sub ? '' : ' disabled'}>
+          <input class="field" data-enter="add-book" id="new-book" placeholder="새 세부일정 (예: 헬스)" maxlength="30" aria-label="새 세부일정 이름" autocomplete="off"${sub ? '' : ' disabled'}>
           <button class="btn" data-act="add-book"${sub ? '' : ' disabled'}>추가</button>
         </div>
       </section>
@@ -1350,7 +1350,7 @@ function styleBody() {
     const on = p.styleId === s.id;
     return `<button class="pick-card${on ? ' on' : ''}" data-act="pick-style" data-id="${s.id}" aria-pressed="${on}">
       <span class="style-preview st-${s.id}" style="color:${s.ink}">
-        <span class="sp-title">May <span>GOAL : 중간고사</span></span>
+        <span class="sp-title">May <span>GOAL : 목표</span></span>
         <span class="mini-cal" style="border:${s.outer};border-radius:${s.radius}px;background:${s.cellBg}">${mini}</span>
       </span>
       <span class="pick-name">${esc(s.name)} <small>${esc(s.desc)}</small>${pickMark(on, settings().styleId === s.id)}</span>
@@ -1366,7 +1366,7 @@ function colorBody() {
     const sw = t.c.map((c) => `<span class="swatch-pair" title="${esc(c[0])}"><i style="background:${c[1]}"></i><i style="background:${c[2]}"></i></span>`).join('');
     return `<div class="pick-card pal-card${on ? ' on' : ''}">
       <button class="pal-pick" data-act="pick-theme" data-id="${t.id}" aria-pressed="${on}">
-        <span class="pick-name">${esc(t.name)} <small>${esc(t.desc)}</small>${pickMark(on, settings().themeId === t.id)}</span>
+        <span class="pick-name">${esc(t.name)}${pickMark(on, settings().themeId === t.id)}</span>
         <span class="swatch-row" style="grid-template-columns:repeat(${Math.max(10, t.c.length)}, minmax(0, 1fr))">${sw}</span>
       </button>
       ${custom ? `<div class="pal-tools"><button class="btn btn-sm" data-act="pal-edit" data-id="${t.id}">${ICON.pencil}편집</button><button class="btn btn-sm danger" data-act="pal-delete" data-id="${t.id}">삭제</button></div>`
@@ -1396,11 +1396,11 @@ function paletteEditor() {
   }).join('');
   return `<div class="pal-editor">
     <div class="pal-top">
-      <div class="field-group grow"><label class="field-label" for="pal-name">팔레트 이름</label><input id="pal-name" class="field" data-input="pal-name" value="${esc(ed.name)}" maxlength="20" placeholder="예: 내 시험기간 색"></div>
+      <div class="field-group grow"><label class="field-label" for="pal-name">팔레트 이름</label><input id="pal-name" class="field" data-input="pal-name" value="${esc(ed.name)}" maxlength="20" placeholder="예: 내가 좋아하는 색"></div>
       <div class="field-group"><label class="field-label" for="pal-from">기존 테마 색 불러오기</label>
         <select id="pal-from" class="field" data-input="pal-from"><option value="">선택…</option>${presets}</select></div>
     </div>
-    <p class="hint small" style="margin:0">색을 고르면 미완료(연한 색)와 완료(짙은 색)가 자동으로 만들어져요. 과목은 위에서부터 순서대로 색을 받아요.</p>
+    <p class="hint small" style="margin:0">색을 고르면 미완료(연한 색)와 완료(짙은 색)가 자동으로 만들어져요. 일정은 위에서부터 순서대로 색을 받아요.</p>
     <div class="pal-list">${rows}</div>
     <button class="btn pal-add" data-act="pal-add"${ed.colors.length >= 16 ? ' disabled' : ''}>${ICON.plus}색 추가 <small>(${ed.colors.length}/16)</small></button>
   </div>`;
@@ -1412,12 +1412,12 @@ function fontPreview(f, p, th) {
   const state = f.custom ? fontState[f.id] : 'ready';
   const note = state === 'error' ? ' · 불러오지 못했어요 (인터넷 연결 후 다시 열어 주세요)' : state !== 'ready' ? ' · 불러오는 중…' : '';
   return `<span class="pick-name" style="font-size:${Math.round(20 * k)}px">${esc(f.name)} <small style="font-size:${Math.round(12 * k)}px">${esc(f.desc + note)}</small>${pickMark(on, settings().fontId === f.id)}</span>
-      <span style="font-size:${Math.round(22 * k)}px">May · GOAL : 1학기 중간고사 대비</span>
+      <span style="font-size:${Math.round(22 * k)}px">May · GOAL : 이번 달 목표 달성</span>
       <span class="row-wrap">
         <span style="font-size:${Math.round(16 * k)}px;font-weight:700">D-12</span>
-        <span class="sample-chip" style="font-size:${Math.round(12 * k)}px;background:${tc(th, 0)[1]};color:${inkOn(tc(th, 0)[1])}"><b>쎈</b> 06단원</span>
-        <span class="sample-chip" style="font-size:${Math.round(12 * k)}px;background:${tc(th, 1)[2]};color:${inkOn(tc(th, 1)[2])}"><b>RPM</b> p.109~119</span>
-        <span class="sample-chip" style="font-size:${Math.round(12 * k)}px;background:${tc(th, 2)[1]};color:${inkOn(tc(th, 2)[1])}"><b>모의고사</b> 38~40번</span>
+        <span class="sample-chip" style="font-size:${Math.round(12 * k)}px;background:${tc(th, 0)[1]};color:${inkOn(tc(th, 0)[1])}"><b>독서</b> 30쪽</span>
+        <span class="sample-chip" style="font-size:${Math.round(12 * k)}px;background:${tc(th, 1)[2]};color:${inkOn(tc(th, 1)[2])}"><b>운동</b> 1시간</span>
+        <span class="sample-chip" style="font-size:${Math.round(12 * k)}px;background:${tc(th, 2)[1]};color:${inkOn(tc(th, 2)[1])}"><b>보고서</b> 초안</span>
       </span>`;
 }
 
@@ -1506,10 +1506,10 @@ function displayBody() {
     </button>`;
   return `<div class="switch-list">
     ${sw('toggle-goal', p.showGoal, 'GOAL (이번 달 목표) 표시', '끄면 캘린더 위의 GOAL 칸과 인쇄용 A4에서 목표가 숨겨져요. 적어 둔 목표는 지워지지 않아요.')}
-    ${sw('toggle-abbr', p.showAbbr, '과목 약자 표시', '할 일 앞에 (수) (영)처럼 과목 첫 글자를 붙여요. 약자는 환경설정 → 카테고리에서 과목 이름 옆 연필을 눌러 바꿀 수 있어요.')}
-    ${sw('toggle-week-mode', p.colorMode === 'week', '주간 체크 모드', '할 일은 모두 회색으로, 체크하면 체크한 날이 속한 주의 색으로 칠해져요. 지난주 할 일을 이번 주에 끝내면 이번 주 색이 돼서 언제 했는지 한눈에 보여요. 주마다 색은 지금 고른 과목 색상 테마에서 가져와요.')}
-    ${sw('toggle-sort-subject', p.sortBySubject, '과목 순서대로 정렬', '하루 칸 안의 할 일을 카테고리의 과목 순서(국어 → 수학 → …)대로 모아서 보여 줘요. 같은 과목 안에서는 직접 끌어서 바꾼 순서를 따라요.')}
-    ${sw('toggle-night', night, '나이트모드', '밤 공부용 어두운 화면 · 팝업까지 어두워져요. 끄면 원래 쓰던 캘린더 스타일로 돌아가요.')}
+    ${sw('toggle-abbr', p.showAbbr, '일정 약자 표시', '할 일 앞에 (운) (업)처럼 일정 첫 글자를 붙여요. 약자는 환경설정 → 카테고리에서 일정 이름 옆 연필을 눌러 바꿀 수 있어요.')}
+    ${sw('toggle-week-mode', p.colorMode === 'week', '주간 체크 모드', '할 일은 모두 회색으로, 체크하면 체크한 날이 속한 주의 색으로 칠해져요. 지난주 할 일을 이번 주에 끝내면 이번 주 색이 돼서 언제 했는지 한눈에 보여요. 주마다 색은 지금 고른 색상 팔레트에서 가져와요.')}
+    ${sw('toggle-sort-subject', p.sortBySubject, '일정 순서대로 정렬', '하루 칸 안의 할 일을 카테고리의 일정 순서(위에서부터)대로 모아서 보여 줘요. 같은 일정 안에서는 직접 끌어서 바꾼 순서를 따라요.')}
+    ${sw('toggle-night', night, '나이트모드', '밤에 보기 편한 어두운 화면 · 팝업까지 어두워져요. 끄면 원래 쓰던 캘린더 스타일로 돌아가요.')}
   </div>`;
 }
 
@@ -1579,7 +1579,7 @@ function exportBody() {
   const seg = [['color', '컬러'], ['mono', '글씨만 (흑백)']].map(([id, name]) => `<button class="tab${mode === id ? ' on' : ''}" role="tab" aria-selected="${mode === id}" data-act="export-mode" data-mode="${id}">${name}</button>`).join('');
   return `<div class="tabs export-tabs" role="tablist">${seg}</div>
     ${preview}
-    <p class="hint small" style="margin:0">${mode === 'mono' ? '형광펜(색 배경) 없이 글씨만 흑백으로 뽑아요. 과목은 (수) (영)처럼 약자로 구분돼요. ' : ''}${y}년 ${m}월을 A4 가로 한 장으로 만들어요. 칸에 다 안 들어가는 할 일은 "+N개 더"로 표시돼요.${isNight() ? ' 나이트모드는 잉크 절약을 위해 흰 배경으로 저장돼요.' : ''}</p>`;
+    <p class="hint small" style="margin:0">${mode === 'mono' ? '형광펜(색 배경) 없이 글씨만 흑백으로 뽑아요. 일정은 (운) (업)처럼 약자로 구분돼요. ' : ''}${y}년 ${m}월을 A4 가로 한 장으로 만들어요. 칸에 다 안 들어가는 할 일은 "+N개 더"로 표시돼요.${isNight() ? ' 나이트모드는 잉크 절약을 위해 흰 배경으로 저장돼요.' : ''}</p>`;
 }
 
 function viewAccountModal() {
@@ -1601,7 +1601,7 @@ function viewAccountModal() {
     </div>
     <div class="sync-box">
       <span class="sync-line"><span class="sync-dot" data-sync-dot style="background:${syncDot()}"></span><span data-sync-text="long">${esc(syncLabel(false))}</span></span>
-      <span class="hint small">${offlineCopy ? '지금 고치는 내용은 이 기기에 저장되고, 인터넷이 다시 연결되면 서버에 덮어쓸지 물어봐요.' : cloud ? '할 일, 카테고리, 시험일, 테마 설정이 모든 기기에 자동 저장돼요.' : 'Supabase를 설정하면 이메일 로그인으로 여러 기기에서 같은 플래너를 쓸 수 있어요.'}</span>
+      <span class="hint small">${offlineCopy ? '지금 고치는 내용은 이 기기에 저장되고, 인터넷이 다시 연결되면 서버에 덮어쓸지 물어봐요.' : cloud ? '할 일, 카테고리, D-day, 테마 설정이 모든 기기에 자동 저장돼요.' : 'Supabase를 설정하면 이메일 로그인으로 여러 기기에서 같은 플래너를 쓸 수 있어요.'}</span>
       ${cloud ? '<button class="btn" data-act="sync-now">지금 동기화</button>' : ''}
     </div>
     ${cloud && devices ? `<div class="field-group"><span class="field-label">로그인된 기기</span>${devices}</div>` : ''}
@@ -1856,10 +1856,10 @@ const actions = {
   },
   'rename-subject': (el) => {
     const s = byId(S.data.subjects, el.dataset.id);
-    const name = s && prompt('과목 이름', s.name);
+    const name = s && prompt('일정 이름', s.name);
     if (!name || !name.trim()) return;
     s.name = name.trim();
-    const ab = prompt('할 일 앞에 붙는 과목 약자 (비워 두면 첫 글자)', s.abbr || '');
+    const ab = prompt('할 일 앞에 붙는 일정 약자 (비워 두면 첫 글자)', s.abbr || '');
     if (ab !== null) {
       const v = ab.trim().replace(/[()]/g, '').slice(0, 3);
       if (v) s.abbr = v; else delete s.abbr;
@@ -1885,7 +1885,7 @@ const actions = {
     const s = byId(S.data.subjects, el.dataset.id);
     if (!s) return;
     const nTodo = S.data.todos.filter((t) => t.subjectId === s.id).length;
-    const msg = `'${s.name}' 과목을 삭제할까요?\n이 과목의 문제집도 함께 삭제돼요.` + (nTodo ? `\n이 과목으로 등록된 할 일 ${nTodo}개도 함께 삭제돼요.` : '');
+    const msg = `'${s.name}' 일정을 삭제할까요?\n이 일정의 세부일정도 함께 삭제돼요.` + (nTodo ? `\n이 일정으로 등록된 할 일 ${nTodo}개도 함께 삭제돼요.` : '');
     if (!confirm(msg)) return;
     S.data.subjects = S.data.subjects.filter((x) => x.id !== s.id);
     S.data.books = S.data.books.filter((b) => b.subjectId !== s.id);
@@ -1911,14 +1911,14 @@ const actions = {
   },
   'rename-book': (el) => {
     const b = byId(S.data.books, el.dataset.id);
-    const name = b && prompt('문제집 이름', b.name);
+    const name = b && prompt('세부일정 이름', b.name);
     if (!name || !name.trim()) return;
     b.name = name.trim();
     commit();
   },
   'delete-book': (el) => {
     const b = byId(S.data.books, el.dataset.id);
-    if (!b || !confirm(`'${b.name}' 문제집을 삭제할까요?\n이 문제집으로 등록된 할 일은 과목만 남아요.`)) return;
+    if (!b || !confirm(`'${b.name}' 세부일정을 삭제할까요?\n이 세부일정으로 등록된 할 일은 일정만 남아요.`)) return;
     S.data.books = S.data.books.filter((x) => x.id !== b.id);
     S.data.todos.forEach((t) => { if (t.bookId === b.id) t.bookId = null; });
     if (S.ui.draft && S.ui.draft.bookId === b.id) S.ui.draft.bookId = null;
@@ -2250,7 +2250,7 @@ function bindEvents() {
     } else if (kind === 'draft-text' && S.ui.draft) {
       S.ui.draft.text = el.value;
       const p = document.querySelector('[data-preview-text]');
-      if (p) p.textContent = el.value || (S.ui.draft.subjectId ? '' : '과목을 선택하세요');
+      if (p) p.textContent = el.value || (S.ui.draft.subjectId ? '' : '일정을 선택하세요');
     }
   });
 

diff --git a/index.html b/index.html
@@ -4,10 +4,10 @@
   <meta charset="utf-8">
   <meta name="viewport" content="width=device-width, initial-scale=1">
   <meta name="theme-color" content="#FDFCF9">
-  <title>Exam Monthly · 시험 먼슬리 플래너</title>
+  <title>My Month · 먼슬리 플래너</title>
   <!-- 홈 화면에 추가할 때 쓰는 이름 · 아이콘 (주소창 없이 앱처럼 열림) -->
-  <meta name="apple-mobile-web-app-title" content="Exam Monthly">
-  <meta name="application-name" content="Exam Monthly">
+  <meta name="apple-mobile-web-app-title" content="My Month">
+  <meta name="application-name" content="My Month">
   <meta name="apple-mobile-web-app-capable" content="yes">
   <meta name="mobile-web-app-capable" content="yes">
   <meta name="apple-mobile-web-app-status-bar-style" content="default">

diff --git a/js/store.js b/js/store.js
@@ -8,7 +8,7 @@ const LS_PREFIX = 'exam-monthly:v1:';
 const DEVICE_KEY = 'exam-monthly:device-id';
 
 export function defaultData() {
-  const subjects = ['국어', '수학', '영어', '과학', '사회'].map((name, i) => ({ id: newId('s'), name, color: i, order: i }));
+  const subjects = ['공부', '업무', '운동', '약속', '개인'].map((name, i) => ({ id: newId('s'), name, color: i, order: i }));
   return {
     version: 1,
     titles: {},
